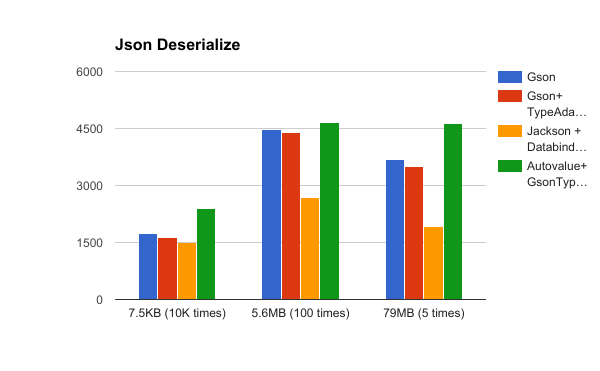
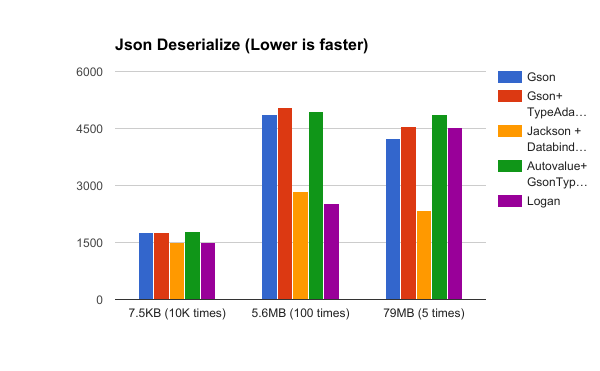
add logan

diff --git a/jsonparser/src/main/kotlin/com/nobrain/androidsamples/jsonparser/logan/logan.kt b/jsonparser/src/main/kotlin/com/nobrain/androidsamples/jsonparser/logan/logan.kt
@@ -1,0 +1,42 @@
+package com.nobrain.androidsamples.jsonparser.logan
+
+import com.bluelinelabs.logansquare.annotation.JsonField
+import com.bluelinelabs.logansquare.annotation.JsonObject
+
+
+@JsonObject
+data class LoganData (
+    @JvmField @JsonField var users: List<LoganUser>? = null
+)
+
+@JsonObject
+data class LoganUser (
+    @JvmField @JsonField var _id: String? = null,
+    @JvmField @JsonField var index: Long = 0L,
+    @JvmField @JsonField var guid: String? = null,
+    @JvmField @JsonField var isActive: Boolean = false,
+    @JvmField @JsonField var balance: String? = null,
+    @JvmField @JsonField var picture: String? = null,
+    @JvmField @JsonField var age: Int = 0,
+    @JvmField @JsonField var eyeColor: String? = null,
+    @JvmField @JsonField var name: String? = null,
+    @JvmField @JsonField var gender: String? = null,
+    @JvmField @JsonField var company: String? = null,
+    @JvmField @JsonField var email: String? = null,
+    @JvmField @JsonField var phone: String? = null,
+    @JvmField @JsonField var address: String? = null,
+    @JvmField @JsonField var about: String? = null,
+    @JvmField @JsonField var registered: String? = null,
+    @JvmField @JsonField var latitude: Double = 0.toDouble(),
+    @JvmField @JsonField var longitude: Double = 0.toDouble(),
+    @JvmField @JsonField var greeting: String? = null,
+    @JvmField @JsonField var favoriteFruit: String? = null,
+    @JvmField @JsonField var tags: List<String>? = null,
+    @JvmField @JsonField var friends: List<LoganFriend>? = null
+)
+
+@JsonObject
+data class LoganFriend (
+    @JvmField @JsonField var id: Long? = 0L,
+    @JvmField @JsonField var name: String? = null
+)

diff --git a/jsonparser/src/test/kotlin/com/nobrain/androidsamples/jsonparser/gson/SmallGsonTest.kt b/jsonparser/src/test/kotlin/com/nobrain/androidsamples/jsonparser/gson/SmallGsonTest.kt
@@ -1,10 +1,11 @@
 package com.nobrain.androidsamples.jsonparser.gson
 
+import com.bluelinelabs.logansquare.LoganSquare
 import com.fasterxml.jackson.databind.ObjectMapper
 import com.google.gson.Gson
 import com.google.gson.GsonBuilder
 import com.nobrain.androidsamples.autovalue.MyAutovalueTypeAdapter
-import com.nobrain.androidsamples.jsonparser.Data
+import com.nobrain.androidsamples.jsonparser.logan.LoganData
 import com.vimeo.stag.generated.Stag
 import org.junit.Test
 import kotlin.system.measureTimeMillis
@@ -13,7 +14,7 @@ import kotlin.system.measureTimeMillis
 class SmallGsonTest {
     @Test
     @Throws(Exception::class)
-    fun rawTest() {
+    fun gsonTest() {
         var totalTime = 0L
         var gson = Gson()
         for (index in 1..10000) {
@@ -64,7 +65,7 @@ class SmallGsonTest {
     }
 
     @Test
-    fun jacksonRawTest() {
+    fun jacksonTest() {
         var totalTime = 0L
         var jacksonMapper = ObjectMapper()
         for (index in 1..10000) {
@@ -75,4 +76,18 @@ class SmallGsonTest {
         println("${String.format("%06d", totalTime)} : Small Jackson")
 
     }
+
+    @Test
+    fun loganTest() {
+        var totalTime = 0L
+        val mapper = LoganSquare.mapperFor(LoganData::class.java)
+        for (index in 1..10000) {
+            totalTime += measureTimeMillis {
+                mapper.parse(javaClass.getResourceAsStream("/small.json"))
+            }
+        }
+        println("${String.format("%06d", totalTime)} : Small Logan")
+    }
+
+
 }

diff --git a/jsonparser/src/test/kotlin/com/nobrain/androidsamples/jsonparser/gson/MediumGsonTest.kt b/jsonparser/src/test/kotlin/com/nobrain/androidsamples/jsonparser/gson/MediumGsonTest.kt
@@ -1,10 +1,11 @@
 package com.nobrain.androidsamples.jsonparser.gson
 
+import com.bluelinelabs.logansquare.LoganSquare
 import com.fasterxml.jackson.databind.ObjectMapper
 import com.google.gson.Gson
 import com.google.gson.GsonBuilder
 import com.nobrain.androidsamples.autovalue.MyAutovalueTypeAdapter
-import com.nobrain.androidsamples.jsonparser.Data
+import com.nobrain.androidsamples.jsonparser.logan.LoganData
 import com.vimeo.stag.generated.Stag
 import org.junit.Test
 import kotlin.system.measureTimeMillis
@@ -12,7 +13,7 @@ import kotlin.system.measureTimeMillis
 
 class MediumGsonTest {
     @Test
-    fun rawTest() {
+    fun gsonTest() {
         var totalTime = 0L
         var gson = Gson()
         for (index in 1..100) {
@@ -59,7 +60,7 @@ class MediumGsonTest {
     }
 
     @Test
-    fun jacksonRawTest() {
+    fun jacksonTest() {
         var totalTime = 0L
         var jacksonMapper = ObjectMapper()
         for (index in 1..100) {
@@ -69,6 +70,18 @@ class MediumGsonTest {
         }
         println("${String.format("%06d", totalTime)} : Medium Jackson")
 
+    }
+
+    @Test
+    fun loganTest() {
+        var totalTime = 0L
+        val mapper = LoganSquare.mapperFor(LoganData::class.java)
+        for (index in 1..100) {
+            totalTime += measureTimeMillis {
+                mapper.parse(javaClass.getResourceAsStream("/medium.json"))
+            }
+        }
+        println("${String.format("%06d", totalTime)} : Medium Logan")
     }
 
 

diff --git a/jsonparser/src/test/kotlin/com/nobrain/androidsamples/jsonparser/gson/BigGsonTest.kt b/jsonparser/src/test/kotlin/com/nobrain/androidsamples/jsonparser/gson/BigGsonTest.kt
@@ -1,10 +1,11 @@
 package com.nobrain.androidsamples.jsonparser.gson
 
+import com.bluelinelabs.logansquare.LoganSquare
 import com.fasterxml.jackson.databind.ObjectMapper
 import com.google.gson.Gson
 import com.google.gson.GsonBuilder
 import com.nobrain.androidsamples.autovalue.MyAutovalueTypeAdapter
-import com.nobrain.androidsamples.jsonparser.Data
+import com.nobrain.androidsamples.jsonparser.logan.LoganData
 import com.vimeo.stag.generated.Stag
 import org.junit.Test
 import kotlin.system.measureTimeMillis
@@ -12,7 +13,7 @@ import kotlin.system.measureTimeMillis
 
 class BigGsonTest {
     @Test
-    fun rawTest() {
+    fun gsonTest() {
         var totalTime = 0L
         var gson = Gson()
         for (index in 1..5) {
@@ -60,7 +61,7 @@ class BigGsonTest {
     }
 
     @Test
-    fun jacksonRawTest() {
+    fun jacksonTest() {
         var totalTime = 0L
         var jacksonMapper = ObjectMapper()
         for (index in 1..5) {
@@ -71,4 +72,17 @@ class BigGsonTest {
         println("${String.format("%06d", totalTime)} : Big Jackson")
 
     }
+
+    @Test
+    fun loganTest() {
+        var totalTime = 0L
+        val mapper = LoganSquare.mapperFor(LoganData::class.java)
+        for (index in 1..5) {
+            totalTime += measureTimeMillis {
+                mapper.parse(javaClass.getResourceAsStream("/big.json"))
+            }
+        }
+        println("${String.format("%06d", totalTime)} : Big Logan")
+    }
+
 }

diff --git a/jsonparser/src/main/kotlin/com/nobrain/androidsamples/jsonparser/gson/gson.kt b/jsonparser/src/main/kotlin/com/nobrain/androidsamples/jsonparser/gson/gson.kt
@@ -1,4 +1,4 @@
-package com.nobrain.androidsamples.jsonparser
+package com.nobrain.androidsamples.jsonparser.gson
 
 import com.vimeo.stag.UseStag
 

diff --git a/jsonparser/README.md b/jsonparser/README.md
@@ -14,7 +14,7 @@ and do unit test.
 
 ## Performance
 
-1. Jackson + Databind
+1. Jackson + Databind, Logan
 2. Gson + TypeAdapter (generated by [Stag-Java](https://github.com/vimeo/stag-java))
 3. Gson
 4. Auto Value + TypeAdapter (generated by [Auto Value Gson](https://github.com/rharter/auto-value-gson))
